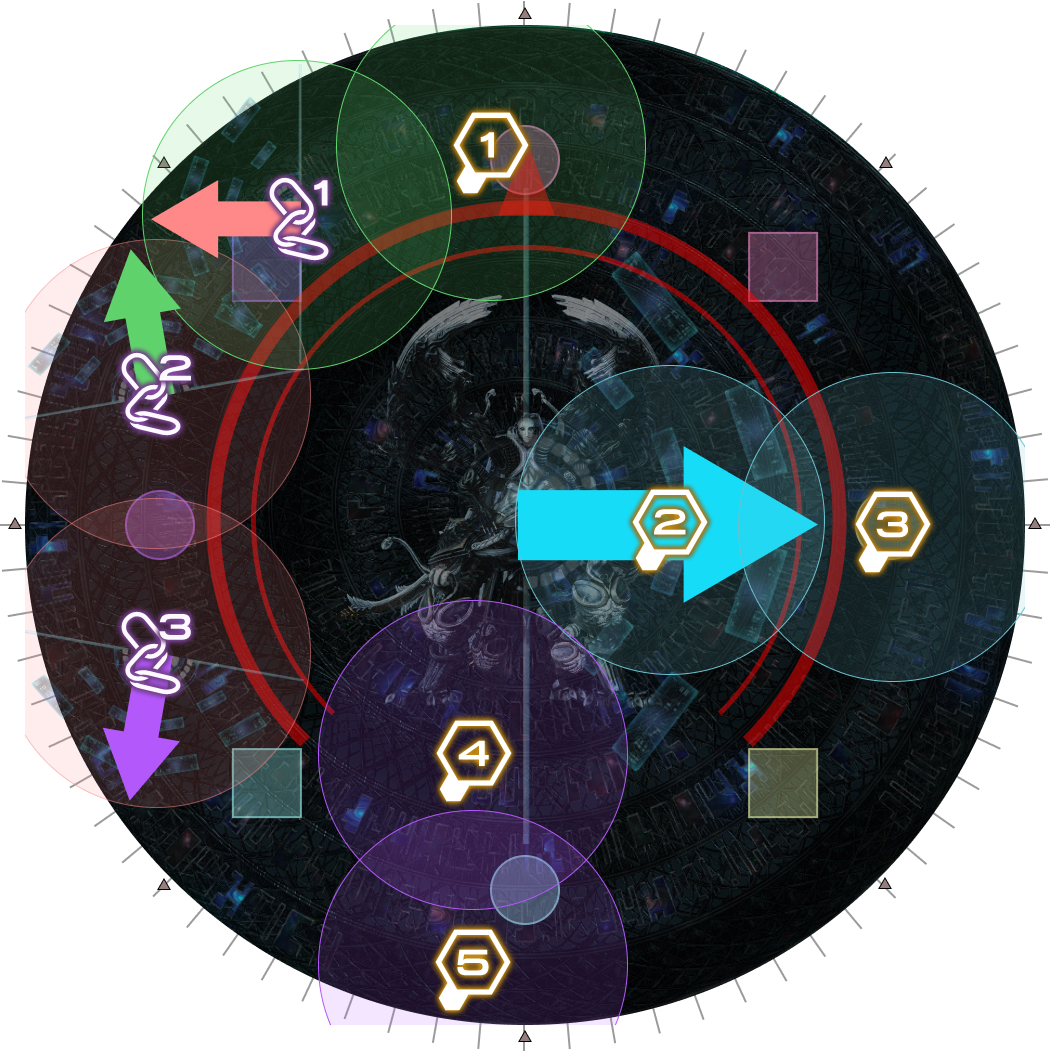
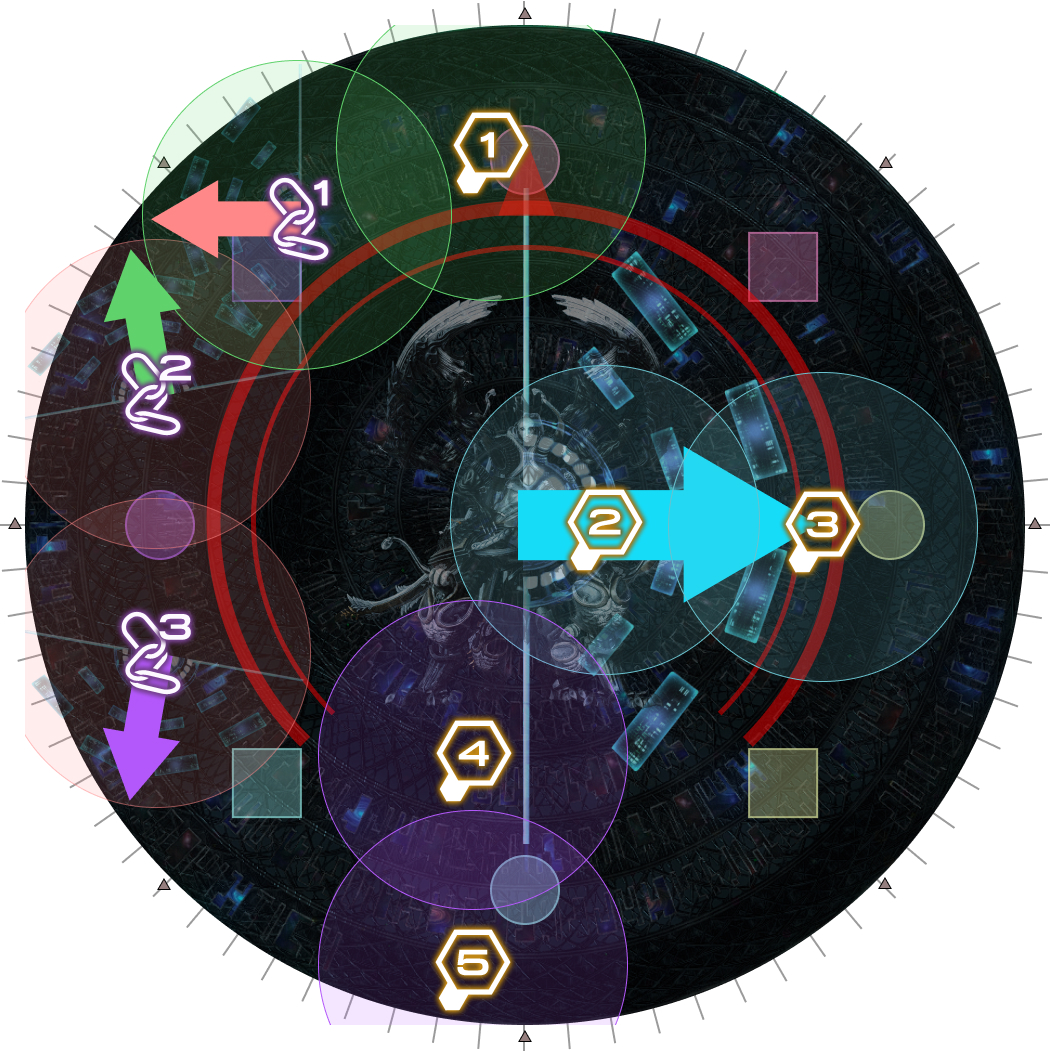
Make it more explicit that non-monitor 2 can be nearer the center

Changed region(s): [[0.4267, 0.2131, 0.9752, 0.7916]]

diff --git a/ultimates/top/en/03_omega_reconfigured.md b/ultimates/top/en/03_omega_reconfigured.md
@@ -381,7 +381,7 @@ PF currently resolves this using [Astoh's strat](https://twitter.com/Astoh_Shall
     <td><img src="../images/03_omega_reconfigured/monitors_pt_left_01.jpg"></td>
   </tr>
   <tr>
-    <td><p><b>2.</b> Omega will ready Oversampled Wave Cannon (monitors), and debuff three random players with their own set of monitors.</p><p>Resolve them as follows, with all three monitor players on the other side of Omega's monitors.</p><p><em>In this example, Omega's monitors are pointing east, but they may point west instead.</em></p></td>
+    <td><p><b>2.</b> Omega will ready Oversampled Wave Cannon (monitors), and debuff three random players with their own set of monitors.</p><p>Resolve them as follows, with all three monitor players on the other side of Omega's monitors.</p><p>Note that the non-monitor player marked 2 can be near the center of the arena (but on the monitor side) to give 3 more space to work with.</p><p><em>In this example, Omega's monitors are pointing east, but they may point west instead.</em></p></td>
     <td><img src="../images/03_omega_reconfigured/monitors_pt_left_02.jpg"></td>
   </tr>
 </table>
